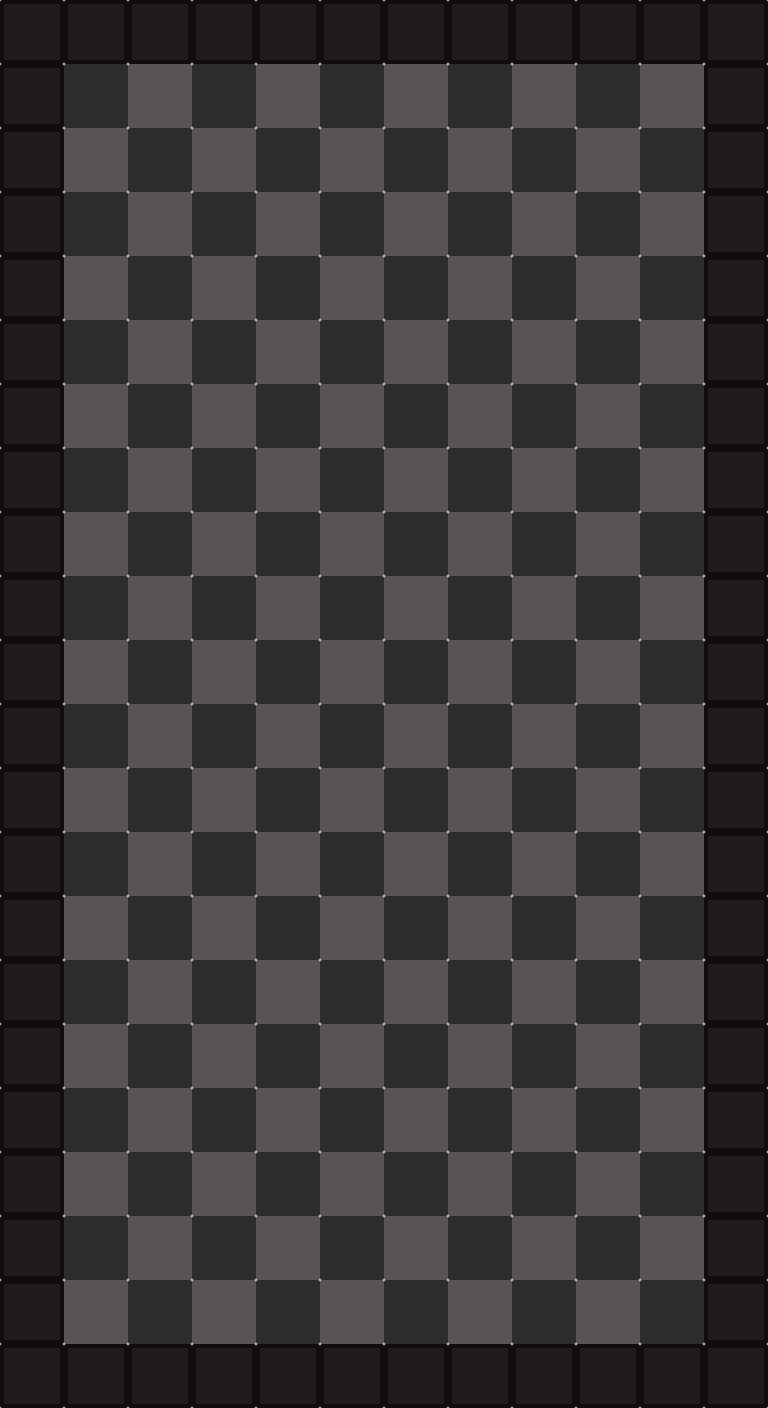
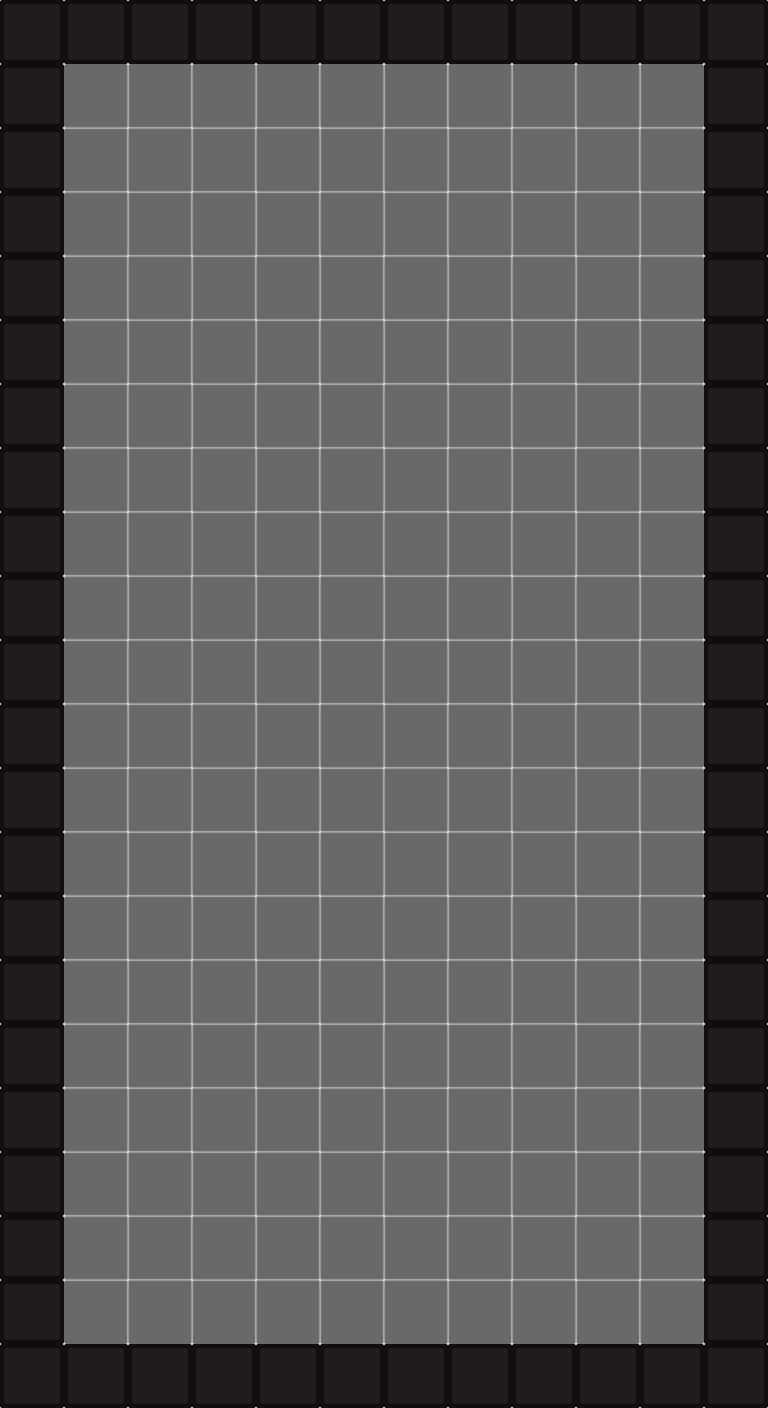
Changed sprite for board to make ghost easier to see. Reset orientation when holding pieces

diff --git a/game/tetrimino.go b/game/tetrimino.go
@@ -25,6 +25,7 @@ type Tetrimino interface {
 	TryRotateRight(o types.Orientation) types.Orientation
 	GetSprite() *ebiten.Image
 	GetOrientation() types.Orientation
+	SetOrientation(o types.Orientation)
 }
 
 type Piece struct {
@@ -61,6 +62,10 @@ func NewTetrimino(p types.Piece) Tetrimino {
 
 func (t Piece) GetOrientation() types.Orientation {
 	return t.orientation
+}
+
+func (t Piece) SetOrientation(o types.Orientation) {
+	t.orientation = o
 }
 
 func (t Piece) GetColor() types.Mino {

diff --git a/main.go b/main.go
@@ -12,7 +12,7 @@ import (
 	"github.com/hajimehoshi/ebiten/v2/inpututil"
 )
 
-var GameScale = 0.25
+var GameScale = 0.5
 
 type Game struct {
 	tick      uint
@@ -184,7 +184,8 @@ func (g *Game) Layout(outsideWidth, outsideHeight int) (screenWidth, screenHeigh
 }
 
 func main() {
-	ebiten.SetWindowSize(800, 450)
+	// ebiten.SetWindowSize(800, 450)
+	ebiten.SetWindowSize(1600, 900)
 	ebiten.SetWindowTitle("Tetrigo")
 
 	g := &Game{

diff --git a/game/hold.go b/game/hold.go
@@ -45,6 +45,7 @@ func (h *Hold) Swap(t Tetrimino) Tetrimino {
 	new := h.piece
 	h.piece = t
 	t.SetPosition(StartingX, StartingY)
+	t.SetOrientation(types.O0)
 	h.canHold = false
 	return new
 }
